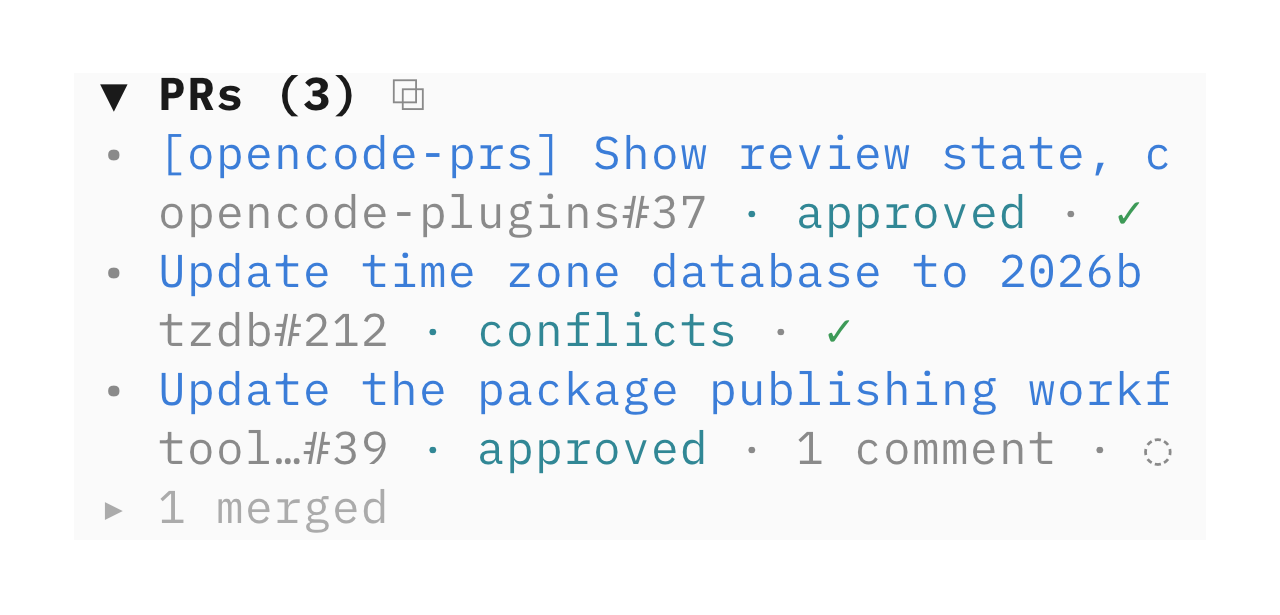
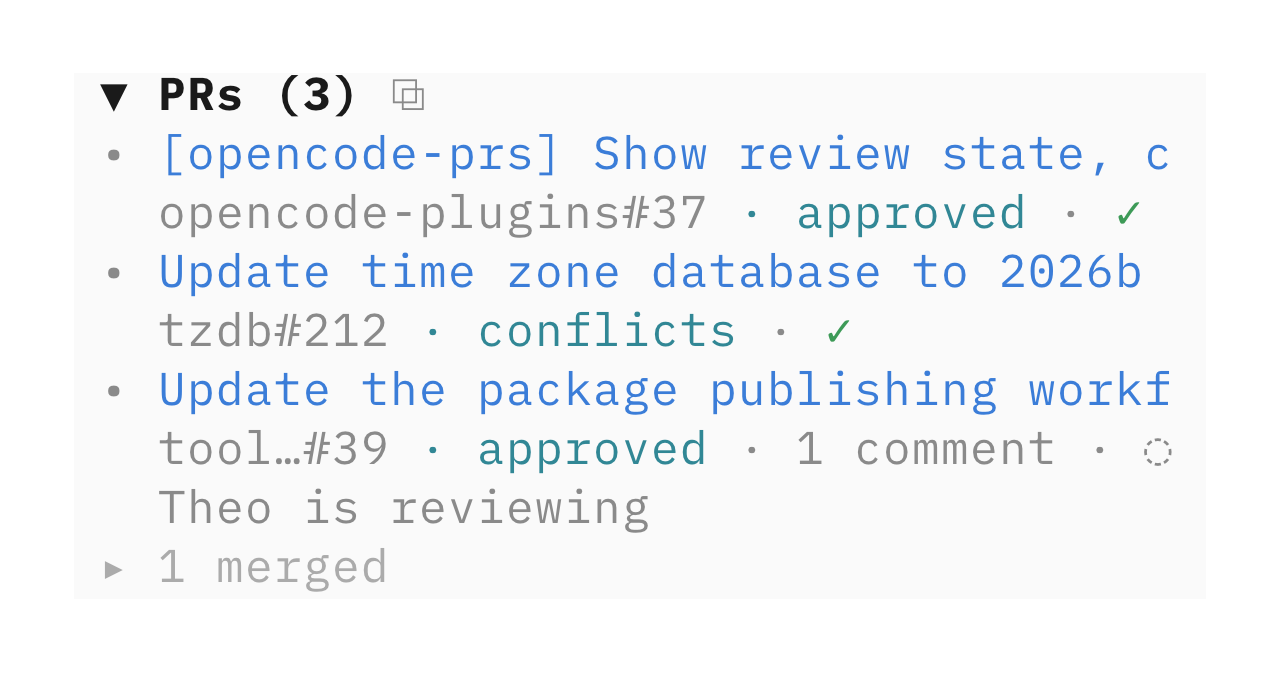
[opencode-prs] Show a line from other tools under each PR

diff --git a/packages/prs/src/tui.tsx b/packages/prs/src/tui.tsx
@@ -1,5 +1,8 @@
 /** @jsxImportSource @opentui/solid */
 import { execFile } from "node:child_process"
+import { mkdir, readdir, readFile, stat } from "node:fs/promises"
+import { homedir } from "node:os"
+import { join } from "node:path"
 import { promisify } from "node:util"
 import { createEffect, createSignal, For, onCleanup, onMount, Show, type Accessor } from "solid-js"
 import type { RGBA } from "@opentui/core"
@@ -14,9 +17,14 @@ import {
   extractCreatedPullRequests,
   isSettled,
   refreshInterval,
+  sameNotes,
   fitPullRequestLabel,
   groupPullRequests,
   marquee,
+  mergeNotes,
+  NOTE_MAX_BYTES,
+  NOTE_MAX_FILES,
+  parseNotes,
   predatesSession,
   pullRequestChecksIndicator,
   pullRequestCommentsLabel,
@@ -27,6 +35,7 @@ import {
   pullRequestsQuery,
   pullRequestsClipboard,
   sortPullRequests,
+  truncate,
   uniquePullRequests,
   type CheckSuiteRuns,
   type CheckSummary,
@@ -79,6 +88,45 @@ type SessionCache = {
 }
 
 const sessionCache = new Map<string, SessionCache>()
+
+const NOTES_DIR = join(process.env.XDG_STATE_HOME || join(homedir(), ".local", "state"), "opencode-prs", "notes")
+const [notes, setNotes] = createSignal<ReadonlyMap<string, string>>(new Map())
+let notesPromise: Promise<void> | undefined
+
+// Other tools check that this folder exists to know the plugin is installed.
+function createNotesDir(): void {
+  void mkdir(NOTES_DIR, { recursive: true, mode: 0o700 }).catch(() => undefined)
+}
+
+function loadNotes(): Promise<void> {
+  return notesPromise ??= readNotes()
+    .catch(() => new Map<string, string>())
+    .then((next) => {
+      if (!sameNotes(notes(), next)) setNotes(next)
+    })
+    .finally(() => {
+      notesPromise = undefined
+    })
+}
+
+async function readNotes(): Promise<Map<string, string>> {
+  const names = (await readdir(NOTES_DIR).catch(() => [] as string[]))
+    .filter((name) => name.endsWith(".json"))
+    .sort()
+    .slice(0, NOTE_MAX_FILES)
+  const now = Date.now()
+  const files = await Promise.all(names.map(async (name) => {
+    try {
+      const path = join(NOTES_DIR, name)
+      const info = await stat(path)
+      if (!info.isFile() || info.size > NOTE_MAX_BYTES) return new Map<string, string>()
+      return parseNotes(await readFile(path, "utf8"), now)
+    } catch {
+      return new Map<string, string>()
+    }
+  }))
+  return mergeNotes(files)
+}
 
 function fade(color: string | RGBA, opacity: number): string | RGBA {
   if (typeof color === "string") return color
@@ -239,6 +287,7 @@ function PullRequestRow(props: {
   const subdued = () => merged() ? fade(props.subdued, MERGED_OPACITY) : props.subdued
   const titleColor = () => merged() ? subdued() : props.link
   const statusColor = () => merged() ? subdued() : props.open
+  const note = () => merged() ? undefined : notes().get(props.pr.url)
   const checksColor = (indicator: ChecksIndicator) => {
     if (indicator === "✓") return props.success
     if (indicator === "×") return props.error
@@ -276,6 +325,13 @@ function PullRequestRow(props: {
           )}
         </Show>
       </box>
+      <Show when={note()} keyed>
+        {(text) => (
+          <box marginLeft={2} minWidth={0} overflow="hidden">
+            <text fg={props.subdued} wrapMode="none">{truncate(text, width())}</text>
+          </box>
+        )}
+      </Show>
     </box>
   )
 }
@@ -507,6 +563,7 @@ function PullRequests(props: {
     cache.descendants = await descendantsPromise
   }
   const revalidate = async () => {
+    void loadNotes()
     await props.sync?.().catch(() => undefined)
     const historyPromise = cache.historyPromise ??= props.history().catch(() => cache.history).finally(() => {
       cache.historyPromise = undefined
@@ -526,6 +583,7 @@ function PullRequests(props: {
     // Ticks at the fast rate: picks up PRs a subagent just created, and refetches once the PRs' own interval has passed.
     const interval = setInterval(() => {
       if (!focused) return
+      void loadNotes()
       void loadDescendants().then(() => refresh(Date.now() - cache.fetchedAt >= refreshInterval(cache.prs)))
     }, ACTIVE_REFRESH_MS)
     onCleanup(() => {
@@ -669,6 +727,7 @@ function PanelRow(props: {
     const label = pullRequestCommentsLabel(props.pr)
     return label ? ` · ${label}` : ""
   }
+  const note = () => merged() ? undefined : notes().get(props.pr.url)
   const marker = () => {
     if (!props.selected()) return " "
     return props.focused() ? "▶" : "▷"
@@ -695,6 +754,13 @@ function PanelRow(props: {
           {` · +${props.pr.additions}/-${props.pr.deletions}`}
         </text>
       </box>
+      <Show when={note()} keyed>
+        {(text) => (
+          <box marginLeft={2} minWidth={0}>
+            <text fg={subdued()} wrapMode="word">{text}</text>
+          </box>
+        )}
+      </Show>
       <Show when={props.pr.state === "OPEN" && props.pr.checkSummary.total > 0}>
         <box flexDirection="column" marginLeft={2} minWidth={0}>
           <For each={props.pr.checkSummary.failing}>{(name) => (
@@ -712,6 +778,7 @@ function PanelRow(props: {
 
 function setup(context: Context) {
   if (typeof context.ui?.slot !== "function") return
+  createNotesDir()
   const cleanups: (() => void)[] = []
   // Panels and keymap layers arrived together in opencode 2.0.12; older hosts keep the sidebar only.
   const panels = typeof context.ui.panel?.open === "function" && typeof context.keymap?.layer === "function"
@@ -787,6 +854,7 @@ async function copyWithToast(context: Context, prs: PullRequest[]): Promise<bool
 
 const tui: TuiPlugin = async (api) => {
   if (typeof api.slots?.register !== "function") return
+  createNotesDir()
   const windowFocus = terminalFocus(api.renderer)
   api.slots.register({
     order: 240,

diff --git a/packages/prs/test/prs.test.js b/packages/prs/test/prs.test.js
@@ -1,6 +1,6 @@
 import assert from "node:assert/strict"
 import { test } from "node:test"
-import { ACTIVE_REFRESH_MS, IDLE_REFRESH_MS, checkSuiteIdsNeedingRuns, checkSuiteRunsQuery, descendantPullRequests, extractCreatedPullRequests, isSettled, refreshInterval, extractPullRequests, fitPullRequestLabel, groupPullRequests, marquee, predatesSession, pullRequestChecksIndicator, pullRequestCommentsLabel, pullRequestFromNode, pullRequestFromRest, pullRequestLabel, pullRequestStatus, pullRequestStatusLabel, pullRequestsQuery, checksState, chromiumCustomData, pullRequestsClipboard, sortPullRequests, summarizeChecks, truncate, uniquePullRequests } from "../dist/prs.js"
+import { ACTIVE_REFRESH_MS, IDLE_REFRESH_MS, NOTE_MAX_AGE_MS, checkSuiteIdsNeedingRuns, cleanNote, mergeNotes, parseNotes, sameNotes, checkSuiteRunsQuery, descendantPullRequests, extractCreatedPullRequests, isSettled, refreshInterval, extractPullRequests, fitPullRequestLabel, groupPullRequests, marquee, predatesSession, pullRequestChecksIndicator, pullRequestCommentsLabel, pullRequestFromNode, pullRequestFromRest, pullRequestLabel, pullRequestStatus, pullRequestStatusLabel, pullRequestsQuery, checksState, chromiumCustomData, pullRequestsClipboard, sortPullRequests, summarizeChecks, truncate, uniquePullRequests } from "../dist/prs.js"
 
 test("extracts and normalizes GitHub pull request links", () => {
   assert.deepEqual(extractPullRequests("See https://github.com/vvo/opencode-plugins/pull/12/files"), [{
@@ -376,4 +376,34 @@ test("encodes a clipboard type as a Chromium pickle", () => {
     Buffer.from([3, 0, 0, 0]), value, Buffer.alloc(2),
   ])
   assert.deepEqual(pickle, expected)
+})
+
+test("reads notes from another tool's file", () => {
+  const now = 1_795_006_434_164
+  const url = "https://github.com/acme/api/pull/7"
+  const file = (notes, updated = now) => JSON.stringify({ updated, notes })
+  assert.deepEqual(parseNotes(file({ [url]: "Theo is reviewing" }), now), new Map([[url, "Theo is reviewing"]]))
+  assert.equal(parseNotes(file({ [url]: "Theo is reviewing" }, now - NOTE_MAX_AGE_MS - 1), now).size, 0)
+  assert.equal(parseNotes(file({ [url]: "Theo is reviewing" }, now - NOTE_MAX_AGE_MS), now).size, 1)
+  assert.equal(parseNotes("{ not json", now).size, 0)
+  assert.equal(parseNotes("null", now).size, 0)
+  assert.equal(parseNotes(JSON.stringify({ notes: { [url]: "no date" } }), now).size, 0)
+  assert.deepEqual(parseNotes(file({ [url]: 42, "https://github.com/acme/api/pull/8": { text: "x" }, "https://github.com/acme/api/pull/9": "ok" }), now), new Map([["https://github.com/acme/api/pull/9", "ok"]]))
+  assert.equal(parseNotes(file({ [`${url}/files`]: "wrong form", [url]: "   " }), now).size, 0)
+})
+
+test("cleans a note before it reaches the terminal", () => {
+  assert.equal(cleanNote("\u001b[31mTheo\u001b[0m is\nreviewing\u0007  now "), "Theo is reviewing now")
+  const long = cleanNote("a".repeat(100))
+  assert.equal(long.length, 80)
+  assert.equal(long, `${"a".repeat(79)}…`)
+})
+
+test("joins two tools' notes on one PR in file order", () => {
+  const url = "https://github.com/acme/api/pull/7"
+  const other = "https://github.com/acme/api/pull/8"
+  const merged = mergeNotes([new Map([[url, "Theo is reviewing"]]), new Map([[url, "checks rerun"], [other, "queued"]])])
+  assert.deepEqual(merged, new Map([[url, "Theo is reviewing · checks rerun"], [other, "queued"]]))
+  assert.equal(sameNotes(merged, new Map(merged)), true)
+  assert.equal(sameNotes(merged, new Map([[url, "Theo is reviewing"]])), false)
 })

diff --git a/packages/prs/src/prs.ts b/packages/prs/src/prs.ts
@@ -436,6 +436,58 @@ export function truncate(value: string, max: number): string {
   return value.length <= max ? value : `${value.slice(0, Math.max(0, max - 1))}…`
 }
 
+export const NOTE_MAX_AGE_MS = 15 * 60_000
+export const NOTE_MAX_LENGTH = 80
+export const NOTE_MAX_FILES = 8
+export const NOTE_MAX_BYTES = 256 * 1024
+const NOTE_URL = /^https:\/\/github\.com\/[\w.-]+\/[\w.-]+\/pull\/\d+$/
+const ANSI_SEQUENCE = /\u001b\[[0-?]*[ -/]*[@-~]/g
+const CONTROL_CHARACTERS = /[\u0000-\u001f\u007f-\u009f]/g
+
+// Other tools write this text: no escape sequence or newline may reach the terminal.
+export function cleanNote(value: string): string {
+  const text = value.replace(ANSI_SEQUENCE, "").replace(CONTROL_CHARACTERS, " ").replace(/\s+/g, " ").trim()
+  return truncate(text, NOTE_MAX_LENGTH)
+}
+
+// A file its tool stopped updating is ignored: a stale note would lie.
+export function parseNotes(text: string, now: number): Map<string, string> {
+  const notes = new Map<string, string>()
+  let data: unknown
+  try {
+    data = JSON.parse(text)
+  } catch {
+    return notes
+  }
+  if (!data || typeof data !== "object") return notes
+  const { updated, notes: entries } = data as { updated?: unknown; notes?: unknown }
+  if (typeof updated !== "number" || !(Math.abs(now - updated) <= NOTE_MAX_AGE_MS)) return notes
+  if (!entries || typeof entries !== "object") return notes
+  for (const [url, value] of Object.entries(entries)) {
+    if (!NOTE_URL.test(url) || typeof value !== "string") continue
+    const note = cleanNote(value)
+    if (note) notes.set(url, note)
+  }
+  return notes
+}
+
+export function mergeNotes(files: Iterable<ReadonlyMap<string, string>>): Map<string, string> {
+  const merged = new Map<string, string>()
+  for (const file of files) {
+    for (const [url, note] of file) {
+      const existing = merged.get(url)
+      merged.set(url, existing ? `${existing} · ${note}` : note)
+    }
+  }
+  return merged
+}
+
+export function sameNotes(left: ReadonlyMap<string, string>, right: ReadonlyMap<string, string>): boolean {
+  if (left.size !== right.size) return false
+  for (const [url, note] of left) if (right.get(url) !== note) return false
+  return true
+}
+
 export function marquee(value: string, width: number, offset: number): string {
   if (width <= 0) return ""
   if (value.length <= width) return value

diff --git a/scripts/screenshots/prs.py b/scripts/screenshots/prs.py
@@ -16,7 +16,9 @@ How it works:
    checks passing, approved but blocked, approved + pending checks, and merged
    (folded behind the `▸ 1 merged` line).
 2. Starts `opencode --session ...` inside a detached tmux pane with a private
-   XDG_CONFIG_HOME so the theme mode and plugin list do not touch ~/.config.
+   XDG_CONFIG_HOME so the theme mode and plugin list do not touch ~/.config,
+   and a private XDG_STATE_HOME holding a fake notes file (NOTES), so the
+   note line shows and the real notes folder is never read.
 3. Captures the pane with `tmux capture-pane -e` (keeps the SGR colors), then
    injects SGR mouse-motion events at the first title so the real hover
    marquee runs, sampling one capture per marquee step.
@@ -28,7 +30,7 @@ How it works:
 6. Types `/prs` to open the panel, moves the selection with `j` and `k`, captures
    the panel after each key and assembles a second GIF from it.
 
-Outputs assets/prs-<mode>.png, assets/prs-hover-<mode>-v7.gif and
+Outputs assets/prs-<mode>.png, assets/prs-hover-<mode>-<GIF_SUFFIX>.gif and
 assets/prs-panel-<mode>-<PANEL_SUFFIX>.gif.
 Bump the gif suffix (and the README references) when the animation changes:
 GitHub caches by filename.
@@ -40,8 +42,8 @@ ROOT = os.path.dirname(os.path.dirname(HERE))
 ASSETS = os.path.join(ROOT, "assets")
 PLUGIN = os.path.join(ROOT, "packages/prs/dist")
 SESSION = "ses_screenshots0000000000prs"
-GIF_SUFFIX = "v7"
-PANEL_SUFFIX = "v1"
+GIF_SUFFIX = "v8"
+PANEL_SUFFIX = "v2"
 PANEL_KEYS = ["j", "j", "j", "k", "k", "k"]
 CHROME = "/Applications/Google Chrome.app/Contents/MacOS/Google Chrome"
 
@@ -51,11 +53,12 @@ PR_URLS = [  # order of creation, sidebar sorts them itself
     "https://github.com/vvo/tzdb/pull/212",
     "https://github.com/vvo/opencode-plugins/pull/37",
 ]
+NOTES = {"https://github.com/vvo/tooling/pull/39": "Theo is reviewing"}
 FIRST_TITLE = "[opencode-prs] Show"   # top row after sorting, gets hovered
 LAST_META = "▸ 1 merged"              # bottom row, proves everything rendered
 
 # Render geometry (matches the previous assets)
-COLS, ROWS = 38, 8
+COLS, ROWS = 38, 9
 CELL_W, CELL_H = 29, 59
 PAD_X, PAD_Y = 74, 73
 FONT_PX = 46
@@ -122,10 +125,18 @@ def write_launcher(work, mode):
         "tabs": {"enabled": False},
         "attention": {"notifications": False, "sound": False},
     }, open(os.path.join(xdg, "cli.json"), "w"), indent=2)
+    notes = os.path.join(work, "state", "opencode-prs", "notes")
+    os.makedirs(notes, exist_ok=True)
+    # OpenCode finds its background service through its own state folder.
+    real_state = os.path.join(os.environ.get("XDG_STATE_HOME") or os.path.expanduser("~/.local/state"), "opencode")
+    if not os.path.lexists(os.path.join(work, "state", "opencode")):
+        os.symlink(real_state, os.path.join(work, "state", "opencode"))
+    json.dump({"updated": int(time.time() * 1000), "notes": NOTES}, open(os.path.join(notes, "screenshots.json"), "w"))
     launcher = os.path.join(work, f"launch-{mode}.sh")
     open(launcher, "w").write(f"""#!/bin/sh
 export PATH="{HERE}:$PATH"
 export XDG_CONFIG_HOME="{os.path.join(work, 'xdg')}"
+export XDG_STATE_HOME="{os.path.join(work, 'state')}"
 cd "{work}"
 exec opencode --session {SESSION}
 """)

diff --git a/packages/prs/README.md b/packages/prs/README.md
@@ -3,17 +3,17 @@
 [OpenCode](https://opencode.ai) TUI plugin that lists GitHub pull requests opened by the current session.
 
 <picture>
-  <source media="(prefers-color-scheme: dark)" srcset="../../assets/prs-hover-dark-v7.gif">
-  <img src="../../assets/prs-hover-light-v7.gif" alt="Pull request titles scrolling on hover in the OpenCode sidebar" width="640">
+  <source media="(prefers-color-scheme: dark)" srcset="../../assets/prs-hover-dark-v8.gif">
+  <img src="../../assets/prs-hover-light-v8.gif" alt="Pull request titles scrolling on hover in the OpenCode sidebar" width="640">
 </picture>
 
-The sidebar section is collapsible. Each pull request uses a full-width linked title with its muted `repository#number` and status word below: `approved`, `approved · blocked`, or `waiting` for open pull requests, `draft`, or `merged`. A pull request with merge conflicts shows `conflicts` instead, draft or not. The blocked label appears when GitHub reports an approved pull request cannot merge once its checks are done, for example when a required approval is missing. Every status word uses one color, so the words carry the meaning on their own. When the line is too narrow, the repository name shortens first (`tool…#39`), so the number, status, comments and checks stay visible. Open pull requests also show unresolved review comments and a checks indicator: `✓` passing, `×` failing, `◌` pending. Merged pull requests fold into one `▸ 3 merged` line under the open ones; click it to list them in subdued colors, so open work stays prominent. Hover a clipped title to scroll through its full text once. Click a status line to copy that PR as a Slack-ready summary, or `⧉` in the header to copy the open and draft ones, confirmed with a toast. The count in the header is the open and draft PRs too.
+The sidebar section is collapsible. Each pull request uses a full-width linked title with its muted `repository#number` and status word below: `approved`, `approved · blocked`, or `waiting` for open pull requests, `draft`, or `merged`. A pull request with merge conflicts shows `conflicts` instead, draft or not. The blocked label appears when GitHub reports an approved pull request cannot merge once its checks are done, for example when a required approval is missing. Every status word uses one color, so the words carry the meaning on their own. When the line is too narrow, the repository name shortens first (`tool…#39`), so the number, status, comments and checks stay visible. Open pull requests also show unresolved review comments and a checks indicator: `✓` passing, `×` failing, `◌` pending. Merged pull requests fold into one `▸ 3 merged` line under the open ones; click it to list them in subdued colors, so open work stays prominent. Other tools on your machine can add one muted line under a PR, like `Theo is reviewing` from a review bot (see [Notes from other tools](#notes-from-other-tools)). Hover a clipped title to scroll through its full text once. Click a status line to copy that PR as a Slack-ready summary, or `⧉` in the header to copy the open and draft ones, confirmed with a toast. The count in the header is the open and draft PRs too.
 
 On opencode 2, `/prs` (or clicking the `PRs` header) opens a panel beside the conversation with every PR of the session at full width: title, `repo#number`, status, unresolved comments, diff size, and for open PRs the failing and running checks by name plus a `✓ 397 passing, 56 skipped of 462` line. Keys while the panel has focus: `j`/`k` or arrows move, `enter` or `o` opens the PR in the browser, `c` copies it for Slack, `C` copies the open and draft ones, `r` refreshes, `f` toggles full screen, `q` or `esc` closes. Clicking a row selects it, clicking a title opens it. The `▼` on the sidebar header still folds the section.
 
 <picture>
-  <source media="(prefers-color-scheme: dark)" srcset="../../assets/prs-panel-dark-v1.gif">
-  <img src="../../assets/prs-panel-light-v1.gif" alt="The /prs panel, with the selection moving down the pull requests and back" width="720">
+  <source media="(prefers-color-scheme: dark)" srcset="../../assets/prs-panel-dark-v2.gif">
+  <img src="../../assets/prs-panel-light-v2.gif" alt="The /prs panel, with the selection moving down the pull requests and back" width="720">
 </picture>
 
 ## Install
@@ -43,6 +43,23 @@ Results are cached by session. Switching tabs shows the previous result immediat
 Checks are read in two steps to keep GitHub's rate limit cost low. The first query gets each PR with its check suites' status and the rollup's per-state counts, which give the passing and skipped totals. A second query lists failing and running check runs by name, only for suites that are still running or failed. GitHub prices a query by the most rows its connections could return, so listing runs inside every suite of every PR cost 14 points per refresh for seven PRs. The same seven now cost 1 point, plus 1 while checks run or fail. GitHub's merge state also tells us when an approved PR is blocked from merging.
 
 One published package supports OpenCode 1 and OpenCode 2.
+
+## Notes from other tools
+
+A tool that knows something GitHub does not, like a review bot that is reading a PR right now, can show it as one muted line under that PR, in the sidebar and in the panel. Merged PRs show no note, and the Slack copy leaves notes out.
+
+The plugin creates `${XDG_STATE_HOME:-~/.local/state}/opencode-prs/notes/` at startup, so a tool can check that folder exists to know the plugin is installed. Each tool writes its own file there, named `<tool-name>.json`:
+
+```json
+{ "updated": 1795006434164, "notes": { "https://github.com/acme/api/pull/7": "Theo is reviewing" } }
+```
+
+- `updated` is the time of the tool's last write, in epoch milliseconds. The plugin ignores a file whose `updated` is more than 15 minutes old: its tool stopped, and a stale note would be wrong. Rewrite the file at least every few minutes to keep its notes.
+- `notes` maps a PR URL to one line of text. The URL must be exactly `https://github.com/<owner>/<repo>/pull/<number>`. Values that are not strings are ignored.
+- The plugin reads the folder when the sidebar opens, every thirty seconds while its session is in view, and when the terminal gets focus back. It reads at most 8 `.json` files, in name order, skips files over 256 KB and ignores files that do not parse.
+- Text is cleaned before it shows: control characters and escape sequences are removed, whitespace collapses to single spaces, and the note stops at 80 characters with `…`. The sidebar cuts it again to fit its width.
+- When two files have a note for the same PR, they show on one line joined by ` · `, in file name order.
+- Write the file atomically (write a temporary file in the same folder, with a name that does not end in `.json`, then rename it), so the plugin never reads half of it.
 
 ## Development
 

diff --git a/AGENTS.md b/AGENTS.md
@@ -21,11 +21,11 @@ This repository publishes independent OpenCode plugins from `packages/`.
 ## Screenshots
 
 - Update the light and dark `opencode-prs` screenshots and hover GIFs when its visible output changes.
-- Keep `assets/prs-light.png`, `assets/prs-dark.png`, `assets/prs-hover-light-v7.gif`, and `assets/prs-hover-dark-v7.gif` in sync with the current UI.
+- Keep `assets/prs-light.png`, `assets/prs-dark.png`, `assets/prs-hover-light-v8.gif`, and `assets/prs-hover-dark-v8.gif` in sync with the current UI.
 - Regenerate them with `pnpm build && python3 scripts/screenshots/prs.py`. It needs the OpenCode 2 background service, `tmux`, Google Chrome, `magick`, and `gifsicle`. It imports a fake session, runs the real TUI in tmux with a private `XDG_CONFIG_HOME`, shadows `gh` with `scripts/screenshots/gh` for canned PR data, injects mouse motion for the hover marquee, and renders the captured cells through headless Chrome with IBM Plex Mono. The script docstring has the details.
 - Change the PR mix in `scripts/screenshots/gh` (one PR per visible state, keep it to four rows). Bump `GIF_SUFFIX` in `prs.py` and the README references when the animation changes: GitHub caches GIFs by filename.
 - The cursor in the GIF sits on the lower half of the first title, slightly right of center (`CURSOR` in `prs.py`). Keep it there.
-- The same script records the `/prs` panel GIF (`assets/prs-panel-*-v1.gif`). Bump `PANEL_SUFFIX` when the panel changes.
+- The same script records the `/prs` panel GIF (`assets/prs-panel-*-v2.gif`). Bump `PANEL_SUFFIX` when the panel changes.
 - Regenerate the `opencode-find-sessions` screenshots and typing GIF (`assets/search-sessions-*`) with `pnpm build && python3 scripts/screenshots/search-sessions.py` when the dialog or the home field changes. It loads the plugin against a fake database, so no real session can show up in a public image.
 - Regenerate the `opencode-cost-details` image and GIF (`assets/cost-details-*`) with `pnpm build && python3 scripts/screenshots/cost-details.py` when the Context block changes. It imports a fake session and sends one real prompt to claude-sonnet-5.5 per theme (a few cents), and keeps only the Context block, so no MCP server or reply shows up.
 - Every GIF filename carries a suffix (`GIF_SUFFIX`, `PANEL_SUFFIX`). Bump it with the README references when the animation changes: GitHub caches GIFs by filename.

diff --git a/README.md b/README.md
@@ -25,8 +25,8 @@ Shows GitHub pull requests opened by the current session. Every title links to G
 
 <a href="packages/prs">
   <picture>
-    <source media="(prefers-color-scheme: dark)" srcset="assets/prs-hover-dark-v7.gif">
-    <img src="assets/prs-hover-light-v7.gif" alt="Pull requests opened by an OpenCode session" width="640">
+    <source media="(prefers-color-scheme: dark)" srcset="assets/prs-hover-dark-v8.gif">
+    <img src="assets/prs-hover-light-v8.gif" alt="Pull requests opened by an OpenCode session" width="640">
   </picture>
 </a>
 

diff --git a/.changeset/prs-notes-from-other-tools.md b/.changeset/prs-notes-from-other-tools.md
@@ -1,0 +1,5 @@
+---
+"opencode-prs": minor
+---
+
+Show a line from other tools under each PR. A tool on your machine, like a review bot, writes a small JSON file in `~/.local/state/opencode-prs/notes/`, and the sidebar and the `/prs` panel show its note, for example `Theo is reviewing`, as one muted line under the PR's status. A file its tool has not updated for 15 minutes is ignored. The README's "Notes from other tools" section has the format.
